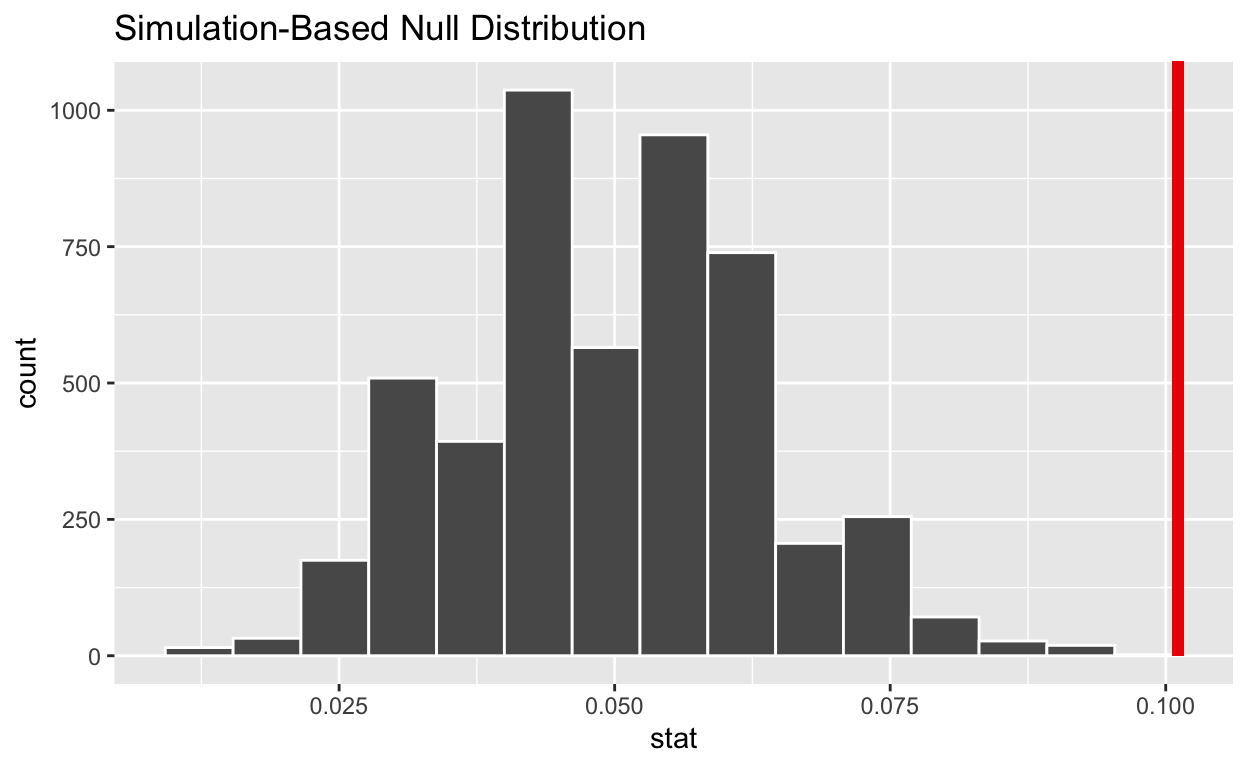
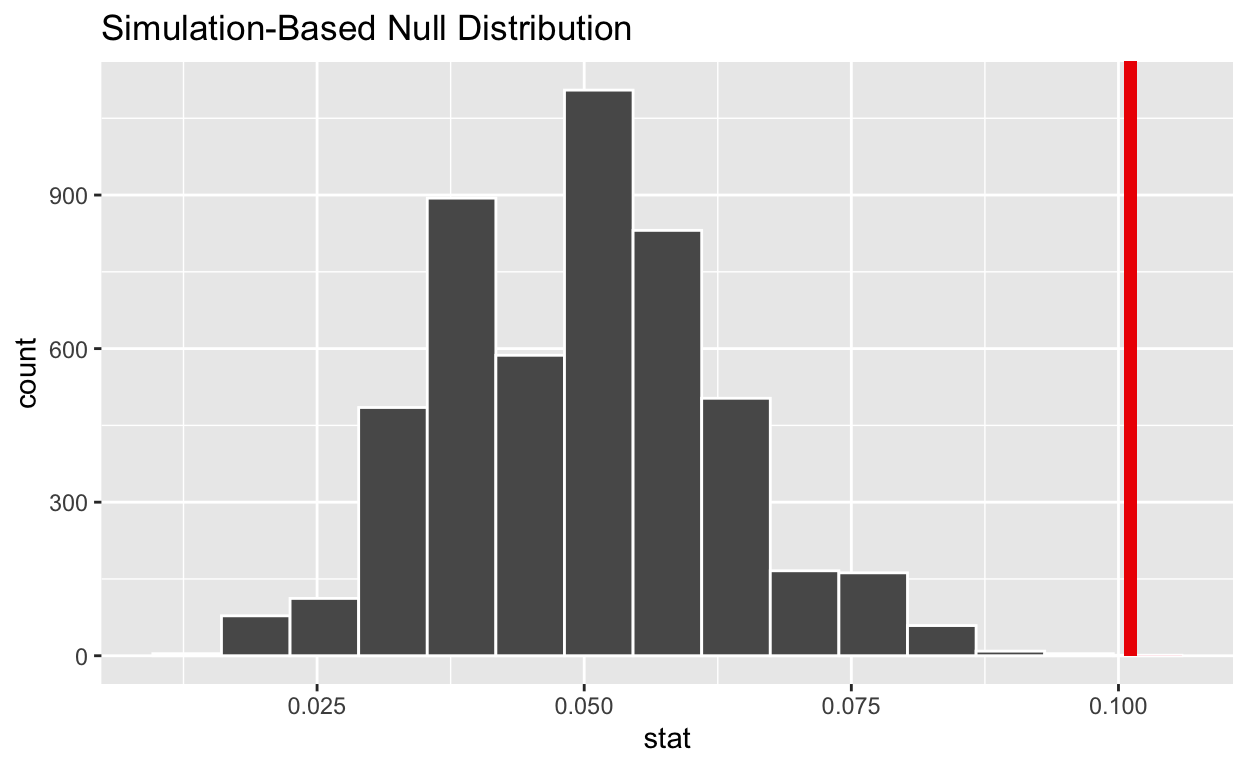
edits

diff --git a/inference/sim_inference.html b/inference/sim_inference.html
@@ -231,7 +231,7 @@ glimpse(cheating_data)</code></pre>
 <pre class="r"><code>head(null_dist)</code></pre>
 <div data-pagedtable="false">
 <script data-pagedtable-source type="application/json">
-{"columns":[{"label":["replicate"],"name":[1],"type":["fctr"],"align":["left"]},{"label":["stat"],"name":[2],"type":["dbl"],"align":["right"]}],"data":[{"1":"1","2":"0.04119850"},{"1":"2","2":"0.04119850"},{"1":"3","2":"0.06741573"},{"1":"4","2":"0.05992509"},{"1":"5","2":"0.04494382"},{"1":"6","2":"0.06367041"}],"options":{"columns":{"min":{},"max":[10]},"rows":{"min":[10],"max":[10]},"pages":{}}}
+{"columns":[{"label":["replicate"],"name":[1],"type":["fctr"],"align":["left"]},{"label":["stat"],"name":[2],"type":["dbl"],"align":["right"]}],"data":[{"1":"1","2":"0.05243446"},{"1":"2","2":"0.04868914"},{"1":"3","2":"0.04868914"},{"1":"4","2":"0.05617978"},{"1":"5","2":"0.05243446"},{"1":"6","2":"0.02621723"}],"options":{"columns":{"min":{},"max":[10]},"rows":{"min":[10],"max":[10]},"pages":{}}}
   </script>
 </div>
 <p><div class="panel-heading tutorial-quiz-title">Quiz</div><div class="panel panel-default">
@@ -271,7 +271,7 @@ null_dist %&gt;%
   summarize(p_value = n() / nrow(null_dist))</code></pre>
 <div data-pagedtable="false">
 <script data-pagedtable-source type="application/json">
-{"columns":[{"label":["p_value"],"name":[1],"type":["dbl"],"align":["right"]}],"data":[{"1":"0"}],"options":{"columns":{"min":{},"max":[10]},"rows":{"min":[10],"max":[10]},"pages":{}}}
+{"columns":[{"label":["p_value"],"name":[1],"type":["dbl"],"align":["right"]}],"data":[{"1":"2e-04"}],"options":{"columns":{"min":{},"max":[10]},"rows":{"min":[10],"max":[10]},"pages":{}}}
   </script>
 </div>
 </div>
@@ -321,7 +321,7 @@ null_dist %&gt;%
 </div>
 <p>Visualize the null distribution using the <code>visualize</code> function.</p>
 <div class="tutorial-exercise" data-label="ex4" data-caption="Code" data-completion="1" data-diagnostics="1" data-startover="1" data-lines="0">
-<script type="application/json" data-opts-chunk="1">{"fig.width":6.5,"fig.height":4,"fig.retina":2,"fig.align":"default","fig.keep":"high","fig.show":"asis","out.width":624,"warning":false,"error":false,"message":false,"exercise.df_print":"paged","exercise.checker":"NULL"}</script>
+<script type="application/json" data-opts-chunk="1">{"fig.width":6.5,"fig.height":4,"fig.retina":2,"fig.align":"default","fig.keep":"high","fig.show":"asis","out.width":624,"warning":false,"error":false,"message":false,"exercise.df_print":"paged","exercise.setup":"ex3-solution","exercise.checker":"NULL"}</script>
 </div>
 <div class="tutorial-exercise-support" data-label="ex4-solution" data-caption="Code" data-completion="1" data-diagnostics="1" data-startover="1" data-lines="0">
 <pre class="text"><code>null_dist %&gt;%
@@ -329,7 +329,7 @@ null_dist %&gt;%
 </div>
 <p>Starting with the plot above, add a vertical line representing the sample statistic and shade the region corresponding to the <span class="math inline">\(p\)</span>-value.</p>
 <div class="tutorial-exercise" data-label="ex5" data-caption="Code" data-completion="1" data-diagnostics="1" data-startover="1" data-lines="0">
-<script type="application/json" data-opts-chunk="1">{"fig.width":6.5,"fig.height":4,"fig.retina":2,"fig.align":"default","fig.keep":"high","fig.show":"asis","out.width":624,"warning":false,"error":false,"message":false,"exercise.df_print":"paged","exercise.checker":"NULL"}</script>
+<script type="application/json" data-opts-chunk="1">{"fig.width":6.5,"fig.height":4,"fig.retina":2,"fig.align":"default","fig.keep":"high","fig.show":"asis","out.width":624,"warning":false,"error":false,"message":false,"exercise.df_print":"paged","exercise.setup":"ex3-solution","exercise.checker":"NULL"}</script>
 </div>
 <div class="tutorial-exercise-support" data-label="ex5-solution" data-caption="Code" data-completion="1" data-diagnostics="1" data-startover="1" data-lines="0">
 <pre class="text"><code>null_dist %&gt;%
@@ -370,11 +370,11 @@ session$onSessionEnded(function() {
 </script>
  
 <script type="application/shiny-prerendered" data-context="server">
-learnr:::question_prerendered_chunk(structure(list(type = "learnr_radio", label = "quiz1-1", question = structure("What is the appropriate way to express the null and alternative \n           hypothesis in symbols?", html = TRUE, class = c("html", "character")), answers = list(structure(list(id = "lnr_ans_3f8a96b",     option = "Ho: p = 0.05 and Ha: p > 0.05", value = "Ho: p = 0.05 and Ha: p > 0.05",     label = structure("Ho: p = 0.05 and Ha: p &gt; 0.05", html = TRUE, class = c("html",     "character")), correct = TRUE, message = structure("", html = TRUE, class = c("html",     "character"))), class = c("tutorial_question_answer", "tutorial_quiz_answer")), structure(list(id = "lnr_ans_ad39963", option = "Ho: p > 0.05 and Ha: p = 0.05",     value = "Ho: p > 0.05 and Ha: p = 0.05", label = structure("Ho: p &gt; 0.05 and Ha: p = 0.05", html = TRUE, class = c("html",     "character")), correct = FALSE, message = structure("", html = TRUE, class = c("html",     "character"))), class = c("tutorial_question_answer", "tutorial_quiz_answer")), structure(list(id = "lnr_ans_40dbd24", option = "Ho: p = 0.05 and Ha: p < 0.05",     value = "Ho: p = 0.05 and Ha: p < 0.05", label = structure("Ho: p = 0.05 and Ha: p &lt; 0.05", html = TRUE, class = c("html",     "character")), correct = FALSE, message = structure("", html = TRUE, class = c("html",     "character"))), class = c("tutorial_question_answer", "tutorial_quiz_answer")), structure(list(id = "lnr_ans_605ca03", option = "Ho: p = 0.05 and Ha: p != 0.05",     value = "Ho: p = 0.05 and Ha: p != 0.05", label = structure("Ho: p = 0.05 and Ha: p != 0.05", html = TRUE, class = c("html",     "character")), correct = FALSE, message = structure("", html = TRUE, class = c("html",     "character"))), class = c("tutorial_question_answer", "tutorial_quiz_answer"))), button_labels = list(submit = structure("Submit Answer", html = TRUE, class = c("html", "character")), try_again = structure("Try Again", html = TRUE, class = c("html", "character"))), messages = list(correct = structure("Correct!", html = TRUE, class = c("html", "character")), try_again = structure("Incorrect", html = TRUE, class = c("html", "character")), incorrect = structure("Incorrect", html = TRUE, class = c("html", "character")), message = NULL, post_message = NULL), ids = list(    answer = "quiz1-1-answer", question = "quiz1-1"), loading = structure("<strong>Loading:<\u002fstrong> \nWhat is the appropriate way to express the null and alternative \n           hypothesis in symbols?\n<br/><br/><br/>", html = TRUE, class = c("html", "character")), random_answer_order = TRUE, allow_retry = TRUE,     seed = 112230169.447739, options = list()), class = c("learnr_radio", "tutorial_question")))
+learnr:::question_prerendered_chunk(structure(list(type = "learnr_radio", label = "quiz1-1", question = structure("What is the appropriate way to express the null and alternative \n           hypothesis in symbols?", html = TRUE, class = c("html", "character")), answers = list(structure(list(id = "lnr_ans_61ce615",     option = "Ho: p = 0.05 and Ha: p > 0.05", value = "Ho: p = 0.05 and Ha: p > 0.05",     label = structure("Ho: p = 0.05 and Ha: p &gt; 0.05", html = TRUE, class = c("html",     "character")), correct = TRUE, message = structure("", html = TRUE, class = c("html",     "character"))), class = c("tutorial_question_answer", "tutorial_quiz_answer")), structure(list(id = "lnr_ans_f3d6cdc", option = "Ho: p > 0.05 and Ha: p = 0.05",     value = "Ho: p > 0.05 and Ha: p = 0.05", label = structure("Ho: p &gt; 0.05 and Ha: p = 0.05", html = TRUE, class = c("html",     "character")), correct = FALSE, message = structure("", html = TRUE, class = c("html",     "character"))), class = c("tutorial_question_answer", "tutorial_quiz_answer")), structure(list(id = "lnr_ans_d0aa847", option = "Ho: p = 0.05 and Ha: p < 0.05",     value = "Ho: p = 0.05 and Ha: p < 0.05", label = structure("Ho: p = 0.05 and Ha: p &lt; 0.05", html = TRUE, class = c("html",     "character")), correct = FALSE, message = structure("", html = TRUE, class = c("html",     "character"))), class = c("tutorial_question_answer", "tutorial_quiz_answer")), structure(list(id = "lnr_ans_8758dd9", option = "Ho: p = 0.05 and Ha: p != 0.05",     value = "Ho: p = 0.05 and Ha: p != 0.05", label = structure("Ho: p = 0.05 and Ha: p != 0.05", html = TRUE, class = c("html",     "character")), correct = FALSE, message = structure("", html = TRUE, class = c("html",     "character"))), class = c("tutorial_question_answer", "tutorial_quiz_answer"))), button_labels = list(submit = structure("Submit Answer", html = TRUE, class = c("html", "character")), try_again = structure("Try Again", html = TRUE, class = c("html", "character"))), messages = list(correct = structure("Correct!", html = TRUE, class = c("html", "character")), try_again = structure("Incorrect", html = TRUE, class = c("html", "character")), incorrect = structure("Incorrect", html = TRUE, class = c("html", "character")), message = NULL, post_message = NULL), ids = list(    answer = "quiz1-1-answer", question = "quiz1-1"), loading = structure("<strong>Loading:<\u002fstrong> \nWhat is the appropriate way to express the null and alternative \n           hypothesis in symbols?\n<br/><br/><br/>", html = TRUE, class = c("html", "character")), random_answer_order = TRUE, allow_retry = TRUE,     seed = 261449645.378253, options = list()), class = c("learnr_radio", "tutorial_question")))
 </script>
  
 <script type="application/shiny-prerendered" data-context="server">
-learnr:::question_prerendered_chunk(structure(list(type = "learnr_radio", label = "quiz2-1", question = structure("The choice of summary statistic depends on the context. In this \n  example, what is a natural choice?", html = TRUE, class = c("html", "character")), answers = list(structure(list(id = "lnr_ans_3ba60af",     option = "27/267 = 0.1011", value = "27/267 = 0.1011", label = structure("27/267 = 0.1011", html = TRUE, class = c("html",     "character")), correct = TRUE, message = structure("", html = TRUE, class = c("html",     "character"))), class = c("tutorial_question_answer", "tutorial_quiz_answer")), structure(list(id = "lnr_ans_4c91dfb", option = "1/20 = 0.05",     value = "1/20 = 0.05", label = structure("1/20 = 0.05", html = TRUE, class = c("html",     "character")), correct = FALSE, message = structure("", html = TRUE, class = c("html",     "character"))), class = c("tutorial_question_answer", "tutorial_quiz_answer")), structure(list(id = "lnr_ans_f1f1cf4", option = "267/27",     value = "267/27", label = structure("267/27", html = TRUE, class = c("html",     "character")), correct = FALSE, message = structure("", html = TRUE, class = c("html",     "character"))), class = c("tutorial_question_answer", "tutorial_quiz_answer")), structure(list(id = "lnr_ans_94443a3", option = "1/2 = 0.50",     value = "1/2 = 0.50", label = structure("1/2 = 0.50", html = TRUE, class = c("html",     "character")), correct = FALSE, message = structure("", html = TRUE, class = c("html",     "character"))), class = c("tutorial_question_answer", "tutorial_quiz_answer"))), button_labels = list(submit = structure("Submit Answer", html = TRUE, class = c("html", "character")), try_again = structure("Try Again", html = TRUE, class = c("html", "character"))), messages = list(correct = structure("Correct!", html = TRUE, class = c("html", "character")), try_again = structure("Incorrect", html = TRUE, class = c("html", "character")), incorrect = structure("Incorrect", html = TRUE, class = c("html", "character")), message = NULL, post_message = NULL), ids = list(    answer = "quiz2-1-answer", question = "quiz2-1"), loading = structure("<strong>Loading:<\u002fstrong> \nThe choice of summary statistic depends on the context. In this \n  example, what is a natural choice?\n<br/><br/><br/>", html = TRUE, class = c("html", "character")), random_answer_order = TRUE, allow_retry = TRUE,     seed = 1476016028.31268, options = list()), class = c("learnr_radio", "tutorial_question")))
+learnr:::question_prerendered_chunk(structure(list(type = "learnr_radio", label = "quiz2-1", question = structure("The choice of summary statistic depends on the context. In this \n  example, what is a natural choice?", html = TRUE, class = c("html", "character")), answers = list(structure(list(id = "lnr_ans_20b7924",     option = "27/267 = 0.1011", value = "27/267 = 0.1011", label = structure("27/267 = 0.1011", html = TRUE, class = c("html",     "character")), correct = TRUE, message = structure("", html = TRUE, class = c("html",     "character"))), class = c("tutorial_question_answer", "tutorial_quiz_answer")), structure(list(id = "lnr_ans_67fe750", option = "1/20 = 0.05",     value = "1/20 = 0.05", label = structure("1/20 = 0.05", html = TRUE, class = c("html",     "character")), correct = FALSE, message = structure("", html = TRUE, class = c("html",     "character"))), class = c("tutorial_question_answer", "tutorial_quiz_answer")), structure(list(id = "lnr_ans_3e6e7f8", option = "267/27",     value = "267/27", label = structure("267/27", html = TRUE, class = c("html",     "character")), correct = FALSE, message = structure("", html = TRUE, class = c("html",     "character"))), class = c("tutorial_question_answer", "tutorial_quiz_answer")), structure(list(id = "lnr_ans_babe831", option = "1/2 = 0.50",     value = "1/2 = 0.50", label = structure("1/2 = 0.50", html = TRUE, class = c("html",     "character")), correct = FALSE, message = structure("", html = TRUE, class = c("html",     "character"))), class = c("tutorial_question_answer", "tutorial_quiz_answer"))), button_labels = list(submit = structure("Submit Answer", html = TRUE, class = c("html", "character")), try_again = structure("Try Again", html = TRUE, class = c("html", "character"))), messages = list(correct = structure("Correct!", html = TRUE, class = c("html", "character")), try_again = structure("Incorrect", html = TRUE, class = c("html", "character")), incorrect = structure("Incorrect", html = TRUE, class = c("html", "character")), message = NULL, post_message = NULL), ids = list(    answer = "quiz2-1-answer", question = "quiz2-1"), loading = structure("<strong>Loading:<\u002fstrong> \nThe choice of summary statistic depends on the context. In this \n  example, what is a natural choice?\n<br/><br/><br/>", html = TRUE, class = c("html", "character")), random_answer_order = TRUE, allow_retry = TRUE,     seed = 759452216.146353, options = list()), class = c("learnr_radio", "tutorial_question")))
 </script>
  
 <script type="application/shiny-prerendered" data-context="server">
@@ -385,15 +385,15 @@ output$`tutorial-exercise-ex1-output` <- renderUI({
 </script>
  
 <script type="application/shiny-prerendered" data-context="server">
-learnr:::question_prerendered_chunk(structure(list(type = "learnr_radio", label = "quiz3-1", question = structure("Where should the null distribution be centered?", html = TRUE, class = c("html", "character")), answers = list(structure(list(id = "lnr_ans_fbb2f70",     option = "0.05", value = "0.05", label = structure("0.05", html = TRUE, class = c("html",     "character")), correct = TRUE, message = structure("", html = TRUE, class = c("html",     "character"))), class = c("tutorial_question_answer", "tutorial_quiz_answer")), structure(list(id = "lnr_ans_110a632", option = "0.101",     value = "0.101", label = structure("0.101", html = TRUE, class = c("html",     "character")), correct = FALSE, message = structure("", html = TRUE, class = c("html",     "character"))), class = c("tutorial_question_answer", "tutorial_quiz_answer")), structure(list(id = "lnr_ans_e6526c7", option = "0.50", value = "0.50",     label = structure("0.50", html = TRUE, class = c("html",     "character")), correct = FALSE, message = structure("", html = TRUE, class = c("html",     "character"))), class = c("tutorial_question_answer", "tutorial_quiz_answer")), structure(list(id = "lnr_ans_7fc215f", option = "0", value = "0",     label = structure("0", html = TRUE, class = c("html", "character"    )), correct = FALSE, message = structure("", html = TRUE, class = c("html",     "character"))), class = c("tutorial_question_answer", "tutorial_quiz_answer"))), button_labels = list(submit = structure("Submit Answer", html = TRUE, class = c("html", "character")), try_again = structure("Try Again", html = TRUE, class = c("html", "character"))), messages = list(correct = structure("Correct!", html = TRUE, class = c("html", "character")), try_again = structure("Incorrect", html = TRUE, class = c("html", "character")), incorrect = structure("Incorrect", html = TRUE, class = c("html", "character")), message = NULL, post_message = NULL), ids = list(    answer = "quiz3-1-answer", question = "quiz3-1"), loading = structure("<strong>Loading:<\u002fstrong> \nWhere should the null distribution be centered?\n<br/><br/><br/>", html = TRUE, class = c("html", "character")), random_answer_order = TRUE, allow_retry = TRUE,     seed = 1088292513.99322, options = list()), class = c("learnr_radio", "tutorial_question")))
+learnr:::question_prerendered_chunk(structure(list(type = "learnr_radio", label = "quiz3-1", question = structure("Where should the null distribution be centered?", html = TRUE, class = c("html", "character")), answers = list(structure(list(id = "lnr_ans_169bbeb",     option = "0.05", value = "0.05", label = structure("0.05", html = TRUE, class = c("html",     "character")), correct = TRUE, message = structure("", html = TRUE, class = c("html",     "character"))), class = c("tutorial_question_answer", "tutorial_quiz_answer")), structure(list(id = "lnr_ans_68c8674", option = "0.101",     value = "0.101", label = structure("0.101", html = TRUE, class = c("html",     "character")), correct = FALSE, message = structure("", html = TRUE, class = c("html",     "character"))), class = c("tutorial_question_answer", "tutorial_quiz_answer")), structure(list(id = "lnr_ans_721bdc3", option = "0.50", value = "0.50",     label = structure("0.50", html = TRUE, class = c("html",     "character")), correct = FALSE, message = structure("", html = TRUE, class = c("html",     "character"))), class = c("tutorial_question_answer", "tutorial_quiz_answer")), structure(list(id = "lnr_ans_80d1ce6", option = "0", value = "0",     label = structure("0", html = TRUE, class = c("html", "character"    )), correct = FALSE, message = structure("", html = TRUE, class = c("html",     "character"))), class = c("tutorial_question_answer", "tutorial_quiz_answer"))), button_labels = list(submit = structure("Submit Answer", html = TRUE, class = c("html", "character")), try_again = structure("Try Again", html = TRUE, class = c("html", "character"))), messages = list(correct = structure("Correct!", html = TRUE, class = c("html", "character")), try_again = structure("Incorrect", html = TRUE, class = c("html", "character")), incorrect = structure("Incorrect", html = TRUE, class = c("html", "character")), message = NULL, post_message = NULL), ids = list(    answer = "quiz3-1-answer", question = "quiz3-1"), loading = structure("<strong>Loading:<\u002fstrong> \nWhere should the null distribution be centered?\n<br/><br/><br/>", html = TRUE, class = c("html", "character")), random_answer_order = TRUE, allow_retry = TRUE,     seed = 1240820933.9222, options = list()), class = c("learnr_radio", "tutorial_question")))
 </script>
  
 <script type="application/shiny-prerendered" data-context="server">
-learnr:::question_prerendered_chunk(structure(list(type = "learnr_radio", label = "quiz4-1", question = structure("Without calculating any numbers and only examining the plot above,\n  is what  we observed in our sample surprising assuming the null hypothesis\n  is true?", html = TRUE, class = c("html", "character")), answers = list(structure(list(id = "lnr_ans_36e56a",     option = "Yes, we are extremely unlikely to observe sample proportions as \n           large or larger as what we observed assuming the null hypothesis is \n           true (p = 0.05).",     value = "Yes, we are extremely unlikely to observe sample proportions as \n           large or larger as what we observed assuming the null hypothesis is \n           true (p = 0.05).",     label = structure("Yes, we are extremely unlikely to observe sample proportions as \n           large or larger as what we observed assuming the null hypothesis is \n           true (p = 0.05).", html = TRUE, class = c("html",     "character")), correct = TRUE, message = structure("", html = TRUE, class = c("html",     "character"))), class = c("tutorial_question_answer", "tutorial_quiz_answer")), structure(list(id = "lnr_ans_8de2e96", option = "No, we are not surprised by sample proportions as large or larger \n           as what we observed assuming the null hypothesis is\n           true (p = 0.05).",     value = "No, we are not surprised by sample proportions as large or larger \n           as what we observed assuming the null hypothesis is\n           true (p = 0.05).",     label = structure("No, we are not surprised by sample proportions as large or larger \n           as what we observed assuming the null hypothesis is\n           true (p = 0.05).", html = TRUE, class = c("html",     "character")), correct = FALSE, message = NULL), class = c("tutorial_question_answer", "tutorial_quiz_answer"))), button_labels = list(submit = structure("Submit Answer", html = TRUE, class = c("html", "character")), try_again = structure("Try Again", html = TRUE, class = c("html", "character"))), messages = list(correct = structure("Correct!", html = TRUE, class = c("html", "character")), try_again = structure("Incorrect", html = TRUE, class = c("html", "character")), incorrect = structure("Incorrect", html = TRUE, class = c("html", "character")), message = NULL, post_message = NULL), ids = list(    answer = "quiz4-1-answer", question = "quiz4-1"), loading = structure("<strong>Loading:<\u002fstrong> \nWithout calculating any numbers and only examining the plot above,\n  is what  we observed in our sample surprising assuming the null hypothesis\n  is true?\n<br/><br/><br/>", html = TRUE, class = c("html", "character")), random_answer_order = TRUE, allow_retry = TRUE,     seed = 974552975.046188, options = list()), class = c("learnr_radio", "tutorial_question")))
+learnr:::question_prerendered_chunk(structure(list(type = "learnr_radio", label = "quiz4-1", question = structure("Without calculating any numbers and only examining the plot above,\n  is what  we observed in our sample surprising assuming the null hypothesis\n  is true?", html = TRUE, class = c("html", "character")), answers = list(structure(list(id = "lnr_ans_d5fb11d",     option = "Yes, we are extremely unlikely to observe sample proportions as \n           large or larger as what we observed assuming the null hypothesis is \n           true (p = 0.05).",     value = "Yes, we are extremely unlikely to observe sample proportions as \n           large or larger as what we observed assuming the null hypothesis is \n           true (p = 0.05).",     label = structure("Yes, we are extremely unlikely to observe sample proportions as \n           large or larger as what we observed assuming the null hypothesis is \n           true (p = 0.05).", html = TRUE, class = c("html",     "character")), correct = TRUE, message = structure("", html = TRUE, class = c("html",     "character"))), class = c("tutorial_question_answer", "tutorial_quiz_answer")), structure(list(id = "lnr_ans_bec446", option = "No, we are not surprised by sample proportions as large or larger \n           as what we observed assuming the null hypothesis is\n           true (p = 0.05).",     value = "No, we are not surprised by sample proportions as large or larger \n           as what we observed assuming the null hypothesis is\n           true (p = 0.05).",     label = structure("No, we are not surprised by sample proportions as large or larger \n           as what we observed assuming the null hypothesis is\n           true (p = 0.05).", html = TRUE, class = c("html",     "character")), correct = FALSE, message = NULL), class = c("tutorial_question_answer", "tutorial_quiz_answer"))), button_labels = list(submit = structure("Submit Answer", html = TRUE, class = c("html", "character")), try_again = structure("Try Again", html = TRUE, class = c("html", "character"))), messages = list(correct = structure("Correct!", html = TRUE, class = c("html", "character")), try_again = structure("Incorrect", html = TRUE, class = c("html", "character")), incorrect = structure("Incorrect", html = TRUE, class = c("html", "character")), message = NULL, post_message = NULL), ids = list(    answer = "quiz4-1-answer", question = "quiz4-1"), loading = structure("<strong>Loading:<\u002fstrong> \nWithout calculating any numbers and only examining the plot above,\n  is what  we observed in our sample surprising assuming the null hypothesis\n  is true?\n<br/><br/><br/>", html = TRUE, class = c("html", "character")), random_answer_order = TRUE, allow_retry = TRUE,     seed = 591320929.724645, options = list()), class = c("learnr_radio", "tutorial_question")))
 </script>
  
 <script type="application/shiny-prerendered" data-context="server">
-learnr:::question_prerendered_chunk(structure(list(type = "learnr_radio", label = "quiz5-1", question = structure("Based on the p-value, what is the appropriate statistical decision \n           and conclusion in context?", html = TRUE, class = c("html", "character")), answers = list(structure(list(id = "lnr_ans_28b94c",     option = "We reject the null hypothesis. There is convincing evidence that \n           the proportion of college students who use their cell phones to \n           cheat on exams is greater than 0.05.",     value = "We reject the null hypothesis. There is convincing evidence that \n           the proportion of college students who use their cell phones to \n           cheat on exams is greater than 0.05.",     label = structure("We reject the null hypothesis. There is convincing evidence that \n           the proportion of college students who use their cell phones to \n           cheat on exams is greater than 0.05.", html = TRUE, class = c("html",     "character")), correct = TRUE, message = structure("", html = TRUE, class = c("html",     "character"))), class = c("tutorial_question_answer", "tutorial_quiz_answer")), structure(list(id = "lnr_ans_7e35dd2", option = "We fail to reject the null hypothesis. There is convincing evidence \n    that the proportion of college students who use their cell phones to cheat \n    on exams is greater than 0.05.",     value = "We fail to reject the null hypothesis. There is convincing evidence \n    that the proportion of college students who use their cell phones to cheat \n    on exams is greater than 0.05.",     label = structure("We fail to reject the null hypothesis. There is convincing evidence \n    that the proportion of college students who use their cell phones to cheat \n    on exams is greater than 0.05.", html = TRUE, class = c("html",     "character")), correct = FALSE, message = NULL), class = c("tutorial_question_answer", "tutorial_quiz_answer")), structure(list(id = "lnr_ans_a626863",     option = "We reject the null hypothesis. We do not have convincing \n        evidence that the proportion of college students who use their cell \n        phones to cheat on exams is greater than 0.05.",     value = "We reject the null hypothesis. We do not have convincing \n        evidence that the proportion of college students who use their cell \n        phones to cheat on exams is greater than 0.05.",     label = structure("We reject the null hypothesis. We do not have convincing \n        evidence that the proportion of college students who use their cell \n        phones to cheat on exams is greater than 0.05.", html = TRUE, class = c("html",     "character")), correct = FALSE, message = NULL), class = c("tutorial_question_answer", "tutorial_quiz_answer")), structure(list(id = "lnr_ans_6cda3fc",     option = "We fail to reject the null hypothesis. We do not have convincing \n        evidence that the proportion of college students who use their cell \n        phones to cheat on exams is greater than 0.05.",     value = "We fail to reject the null hypothesis. We do not have convincing \n        evidence that the proportion of college students who use their cell \n        phones to cheat on exams is greater than 0.05.",     label = structure("We fail to reject the null hypothesis. We do not have convincing \n        evidence that the proportion of college students who use their cell \n        phones to cheat on exams is greater than 0.05.", html = TRUE, class = c("html",     "character")), correct = FALSE, message = NULL), class = c("tutorial_question_answer", "tutorial_quiz_answer"))), button_labels = list(submit = structure("Submit Answer", html = TRUE, class = c("html", "character")), try_again = structure("Try Again", html = TRUE, class = c("html", "character"))), messages = list(correct = structure("Correct!", html = TRUE, class = c("html", "character")), try_again = structure("Incorrect", html = TRUE, class = c("html", "character")), incorrect = structure("Incorrect", html = TRUE, class = c("html", "character")), message = NULL, post_message = NULL), ids = list(    answer = "quiz5-1-answer", question = "quiz5-1"), loading = structure("<strong>Loading:<\u002fstrong> \nBased on the p-value, what is the appropriate statistical decision \n           and conclusion in context?\n<br/><br/><br/>", html = TRUE, class = c("html", "character")), random_answer_order = TRUE, allow_retry = TRUE,     seed = 1944297732.59462, options = list()), class = c("learnr_radio", "tutorial_question")))
+learnr:::question_prerendered_chunk(structure(list(type = "learnr_radio", label = "quiz5-1", question = structure("Based on the p-value, what is the appropriate statistical decision \n           and conclusion in context?", html = TRUE, class = c("html", "character")), answers = list(structure(list(id = "lnr_ans_578a71b",     option = "We reject the null hypothesis. There is convincing evidence that \n           the proportion of college students who use their cell phones to \n           cheat on exams is greater than 0.05.",     value = "We reject the null hypothesis. There is convincing evidence that \n           the proportion of college students who use their cell phones to \n           cheat on exams is greater than 0.05.",     label = structure("We reject the null hypothesis. There is convincing evidence that \n           the proportion of college students who use their cell phones to \n           cheat on exams is greater than 0.05.", html = TRUE, class = c("html",     "character")), correct = TRUE, message = structure("", html = TRUE, class = c("html",     "character"))), class = c("tutorial_question_answer", "tutorial_quiz_answer")), structure(list(id = "lnr_ans_45f1c61", option = "We fail to reject the null hypothesis. There is convincing evidence \n    that the proportion of college students who use their cell phones to cheat \n    on exams is greater than 0.05.",     value = "We fail to reject the null hypothesis. There is convincing evidence \n    that the proportion of college students who use their cell phones to cheat \n    on exams is greater than 0.05.",     label = structure("We fail to reject the null hypothesis. There is convincing evidence \n    that the proportion of college students who use their cell phones to cheat \n    on exams is greater than 0.05.", html = TRUE, class = c("html",     "character")), correct = FALSE, message = NULL), class = c("tutorial_question_answer", "tutorial_quiz_answer")), structure(list(id = "lnr_ans_f2d94c4",     option = "We reject the null hypothesis. We do not have convincing \n        evidence that the proportion of college students who use their cell \n        phones to cheat on exams is greater than 0.05.",     value = "We reject the null hypothesis. We do not have convincing \n        evidence that the proportion of college students who use their cell \n        phones to cheat on exams is greater than 0.05.",     label = structure("We reject the null hypothesis. We do not have convincing \n        evidence that the proportion of college students who use their cell \n        phones to cheat on exams is greater than 0.05.", html = TRUE, class = c("html",     "character")), correct = FALSE, message = NULL), class = c("tutorial_question_answer", "tutorial_quiz_answer")), structure(list(id = "lnr_ans_834d3eb",     option = "We fail to reject the null hypothesis. We do not have convincing \n        evidence that the proportion of college students who use their cell \n        phones to cheat on exams is greater than 0.05.",     value = "We fail to reject the null hypothesis. We do not have convincing \n        evidence that the proportion of college students who use their cell \n        phones to cheat on exams is greater than 0.05.",     label = structure("We fail to reject the null hypothesis. We do not have convincing \n        evidence that the proportion of college students who use their cell \n        phones to cheat on exams is greater than 0.05.", html = TRUE, class = c("html",     "character")), correct = FALSE, message = NULL), class = c("tutorial_question_answer", "tutorial_quiz_answer"))), button_labels = list(submit = structure("Submit Answer", html = TRUE, class = c("html", "character")), try_again = structure("Try Again", html = TRUE, class = c("html", "character"))), messages = list(correct = structure("Correct!", html = TRUE, class = c("html", "character")), try_again = structure("Incorrect", html = TRUE, class = c("html", "character")), incorrect = structure("Incorrect", html = TRUE, class = c("html", "character")), message = NULL, post_message = NULL), ids = list(    answer = "quiz5-1-answer", question = "quiz5-1"), loading = structure("<strong>Loading:<\u002fstrong> \nBased on the p-value, what is the appropriate statistical decision \n           and conclusion in context?\n<br/><br/><br/>", html = TRUE, class = c("html", "character")), random_answer_order = TRUE, allow_retry = TRUE,     seed = 1711007692.20325, options = list()), class = c("learnr_radio", "tutorial_question")))
 </script>
  
 <script type="application/shiny-prerendered" data-context="server">
@@ -425,7 +425,7 @@ output$`tutorial-exercise-ex5-output` <- renderUI({
 </script>
  
 <script type="application/shiny-prerendered" data-context="server">
-learnr:::question_prerendered_chunk(structure(list(type = "learnr_radio", label = "quiz6-1", question = structure("Based on the p-value, what is the appropriate statistical decision \n           and conclusion in context?", html = TRUE, class = c("html", "character")), answers = list(structure(list(id = "lnr_ans_ac5068",     option = "We reject the null hypothesis. There is convincing evidence that \n           the proportion of Americans who report their sex as female is \n           different from 0.50.",     value = "We reject the null hypothesis. There is convincing evidence that \n           the proportion of Americans who report their sex as female is \n           different from 0.50.",     label = structure("We reject the null hypothesis. There is convincing evidence that \n           the proportion of Americans who report their sex as female is \n           different from 0.50.", html = TRUE, class = c("html",     "character")), correct = FALSE, message = structure("", html = TRUE, class = c("html",     "character"))), class = c("tutorial_question_answer", "tutorial_quiz_answer")), structure(list(id = "lnr_ans_db74204", option = "We fail to reject the null hypothesis. There is convincing evidence\n    that  the proportion of Americans who report their sex as female is \n           different from 0.50.",     value = "We fail to reject the null hypothesis. There is convincing evidence\n    that  the proportion of Americans who report their sex as female is \n           different from 0.50.",     label = structure("We fail to reject the null hypothesis. There is convincing evidence\n    that  the proportion of Americans who report their sex as female is \n           different from 0.50.", html = TRUE, class = c("html",     "character")), correct = FALSE, message = NULL), class = c("tutorial_question_answer", "tutorial_quiz_answer")), structure(list(id = "lnr_ans_b8473bf",     option = "We reject the null hypothesis. We do not have convincing evidence that \n           the proportion of Americans who report their sex as female is \n           different from 0.50.",     value = "We reject the null hypothesis. We do not have convincing evidence that \n           the proportion of Americans who report their sex as female is \n           different from 0.50.",     label = structure("We reject the null hypothesis. We do not have convincing evidence that \n           the proportion of Americans who report their sex as female is \n           different from 0.50.", html = TRUE, class = c("html",     "character")), correct = FALSE, message = NULL), class = c("tutorial_question_answer", "tutorial_quiz_answer")), structure(list(id = "lnr_ans_f76333a",     option = "We fail to reject the null hypothesis. We do not have convincing evidence that \n           the proportion of Americans who report their sex as female is \n           different from 0.50.",     value = "We fail to reject the null hypothesis. We do not have convincing evidence that \n           the proportion of Americans who report their sex as female is \n           different from 0.50.",     label = structure("We fail to reject the null hypothesis. We do not have convincing evidence that \n           the proportion of Americans who report their sex as female is \n           different from 0.50.", html = TRUE, class = c("html",     "character")), correct = TRUE, message = NULL), class = c("tutorial_question_answer", "tutorial_quiz_answer"))), button_labels = list(submit = structure("Submit Answer", html = TRUE, class = c("html", "character")), try_again = structure("Try Again", html = TRUE, class = c("html", "character"))), messages = list(correct = structure("Correct!", html = TRUE, class = c("html", "character")), try_again = structure("Incorrect", html = TRUE, class = c("html", "character")), incorrect = structure("Incorrect", html = TRUE, class = c("html", "character")), message = NULL, post_message = NULL), ids = list(    answer = "quiz6-1-answer", question = "quiz6-1"), loading = structure("<strong>Loading:<\u002fstrong> \nBased on the p-value, what is the appropriate statistical decision \n           and conclusion in context?\n<br/><br/><br/>", html = TRUE, class = c("html", "character")), random_answer_order = TRUE, allow_retry = TRUE,     seed = 371692825.326917, options = list()), class = c("learnr_radio", "tutorial_question")))
+learnr:::question_prerendered_chunk(structure(list(type = "learnr_radio", label = "quiz6-1", question = structure("Based on the p-value, what is the appropriate statistical decision \n           and conclusion in context?", html = TRUE, class = c("html", "character")), answers = list(structure(list(id = "lnr_ans_a522836",     option = "We reject the null hypothesis. There is convincing evidence that \n           the proportion of Americans who report their sex as female is \n           different from 0.50.",     value = "We reject the null hypothesis. There is convincing evidence that \n           the proportion of Americans who report their sex as female is \n           different from 0.50.",     label = structure("We reject the null hypothesis. There is convincing evidence that \n           the proportion of Americans who report their sex as female is \n           different from 0.50.", html = TRUE, class = c("html",     "character")), correct = FALSE, message = structure("", html = TRUE, class = c("html",     "character"))), class = c("tutorial_question_answer", "tutorial_quiz_answer")), structure(list(id = "lnr_ans_aa89b9c", option = "We fail to reject the null hypothesis. There is convincing evidence\n    that  the proportion of Americans who report their sex as female is \n           different from 0.50.",     value = "We fail to reject the null hypothesis. There is convincing evidence\n    that  the proportion of Americans who report their sex as female is \n           different from 0.50.",     label = structure("We fail to reject the null hypothesis. There is convincing evidence\n    that  the proportion of Americans who report their sex as female is \n           different from 0.50.", html = TRUE, class = c("html",     "character")), correct = FALSE, message = NULL), class = c("tutorial_question_answer", "tutorial_quiz_answer")), structure(list(id = "lnr_ans_dfefaf7",     option = "We reject the null hypothesis. We do not have convincing evidence that \n           the proportion of Americans who report their sex as female is \n           different from 0.50.",     value = "We reject the null hypothesis. We do not have convincing evidence that \n           the proportion of Americans who report their sex as female is \n           different from 0.50.",     label = structure("We reject the null hypothesis. We do not have convincing evidence that \n           the proportion of Americans who report their sex as female is \n           different from 0.50.", html = TRUE, class = c("html",     "character")), correct = FALSE, message = NULL), class = c("tutorial_question_answer", "tutorial_quiz_answer")), structure(list(id = "lnr_ans_d00e3e7",     option = "We fail to reject the null hypothesis. We do not have convincing evidence that \n           the proportion of Americans who report their sex as female is \n           different from 0.50.",     value = "We fail to reject the null hypothesis. We do not have convincing evidence that \n           the proportion of Americans who report their sex as female is \n           different from 0.50.",     label = structure("We fail to reject the null hypothesis. We do not have convincing evidence that \n           the proportion of Americans who report their sex as female is \n           different from 0.50.", html = TRUE, class = c("html",     "character")), correct = TRUE, message = NULL), class = c("tutorial_question_answer", "tutorial_quiz_answer"))), button_labels = list(submit = structure("Submit Answer", html = TRUE, class = c("html", "character")), try_again = structure("Try Again", html = TRUE, class = c("html", "character"))), messages = list(correct = structure("Correct!", html = TRUE, class = c("html", "character")), try_again = structure("Incorrect", html = TRUE, class = c("html", "character")), incorrect = structure("Incorrect", html = TRUE, class = c("html", "character")), message = NULL, post_message = NULL), ids = list(    answer = "quiz6-1-answer", question = "quiz6-1"), loading = structure("<strong>Loading:<\u002fstrong> \nBased on the p-value, what is the appropriate statistical decision \n           and conclusion in context?\n<br/><br/><br/>", html = TRUE, class = c("html", "character")), random_answer_order = TRUE, allow_retry = TRUE,     seed = 1459916862.82017, options = list()), class = c("learnr_radio", "tutorial_question")))
 </script>
  <!--html_preserve-->
 <script type="application/shiny-prerendered" data-context="dependencies">
